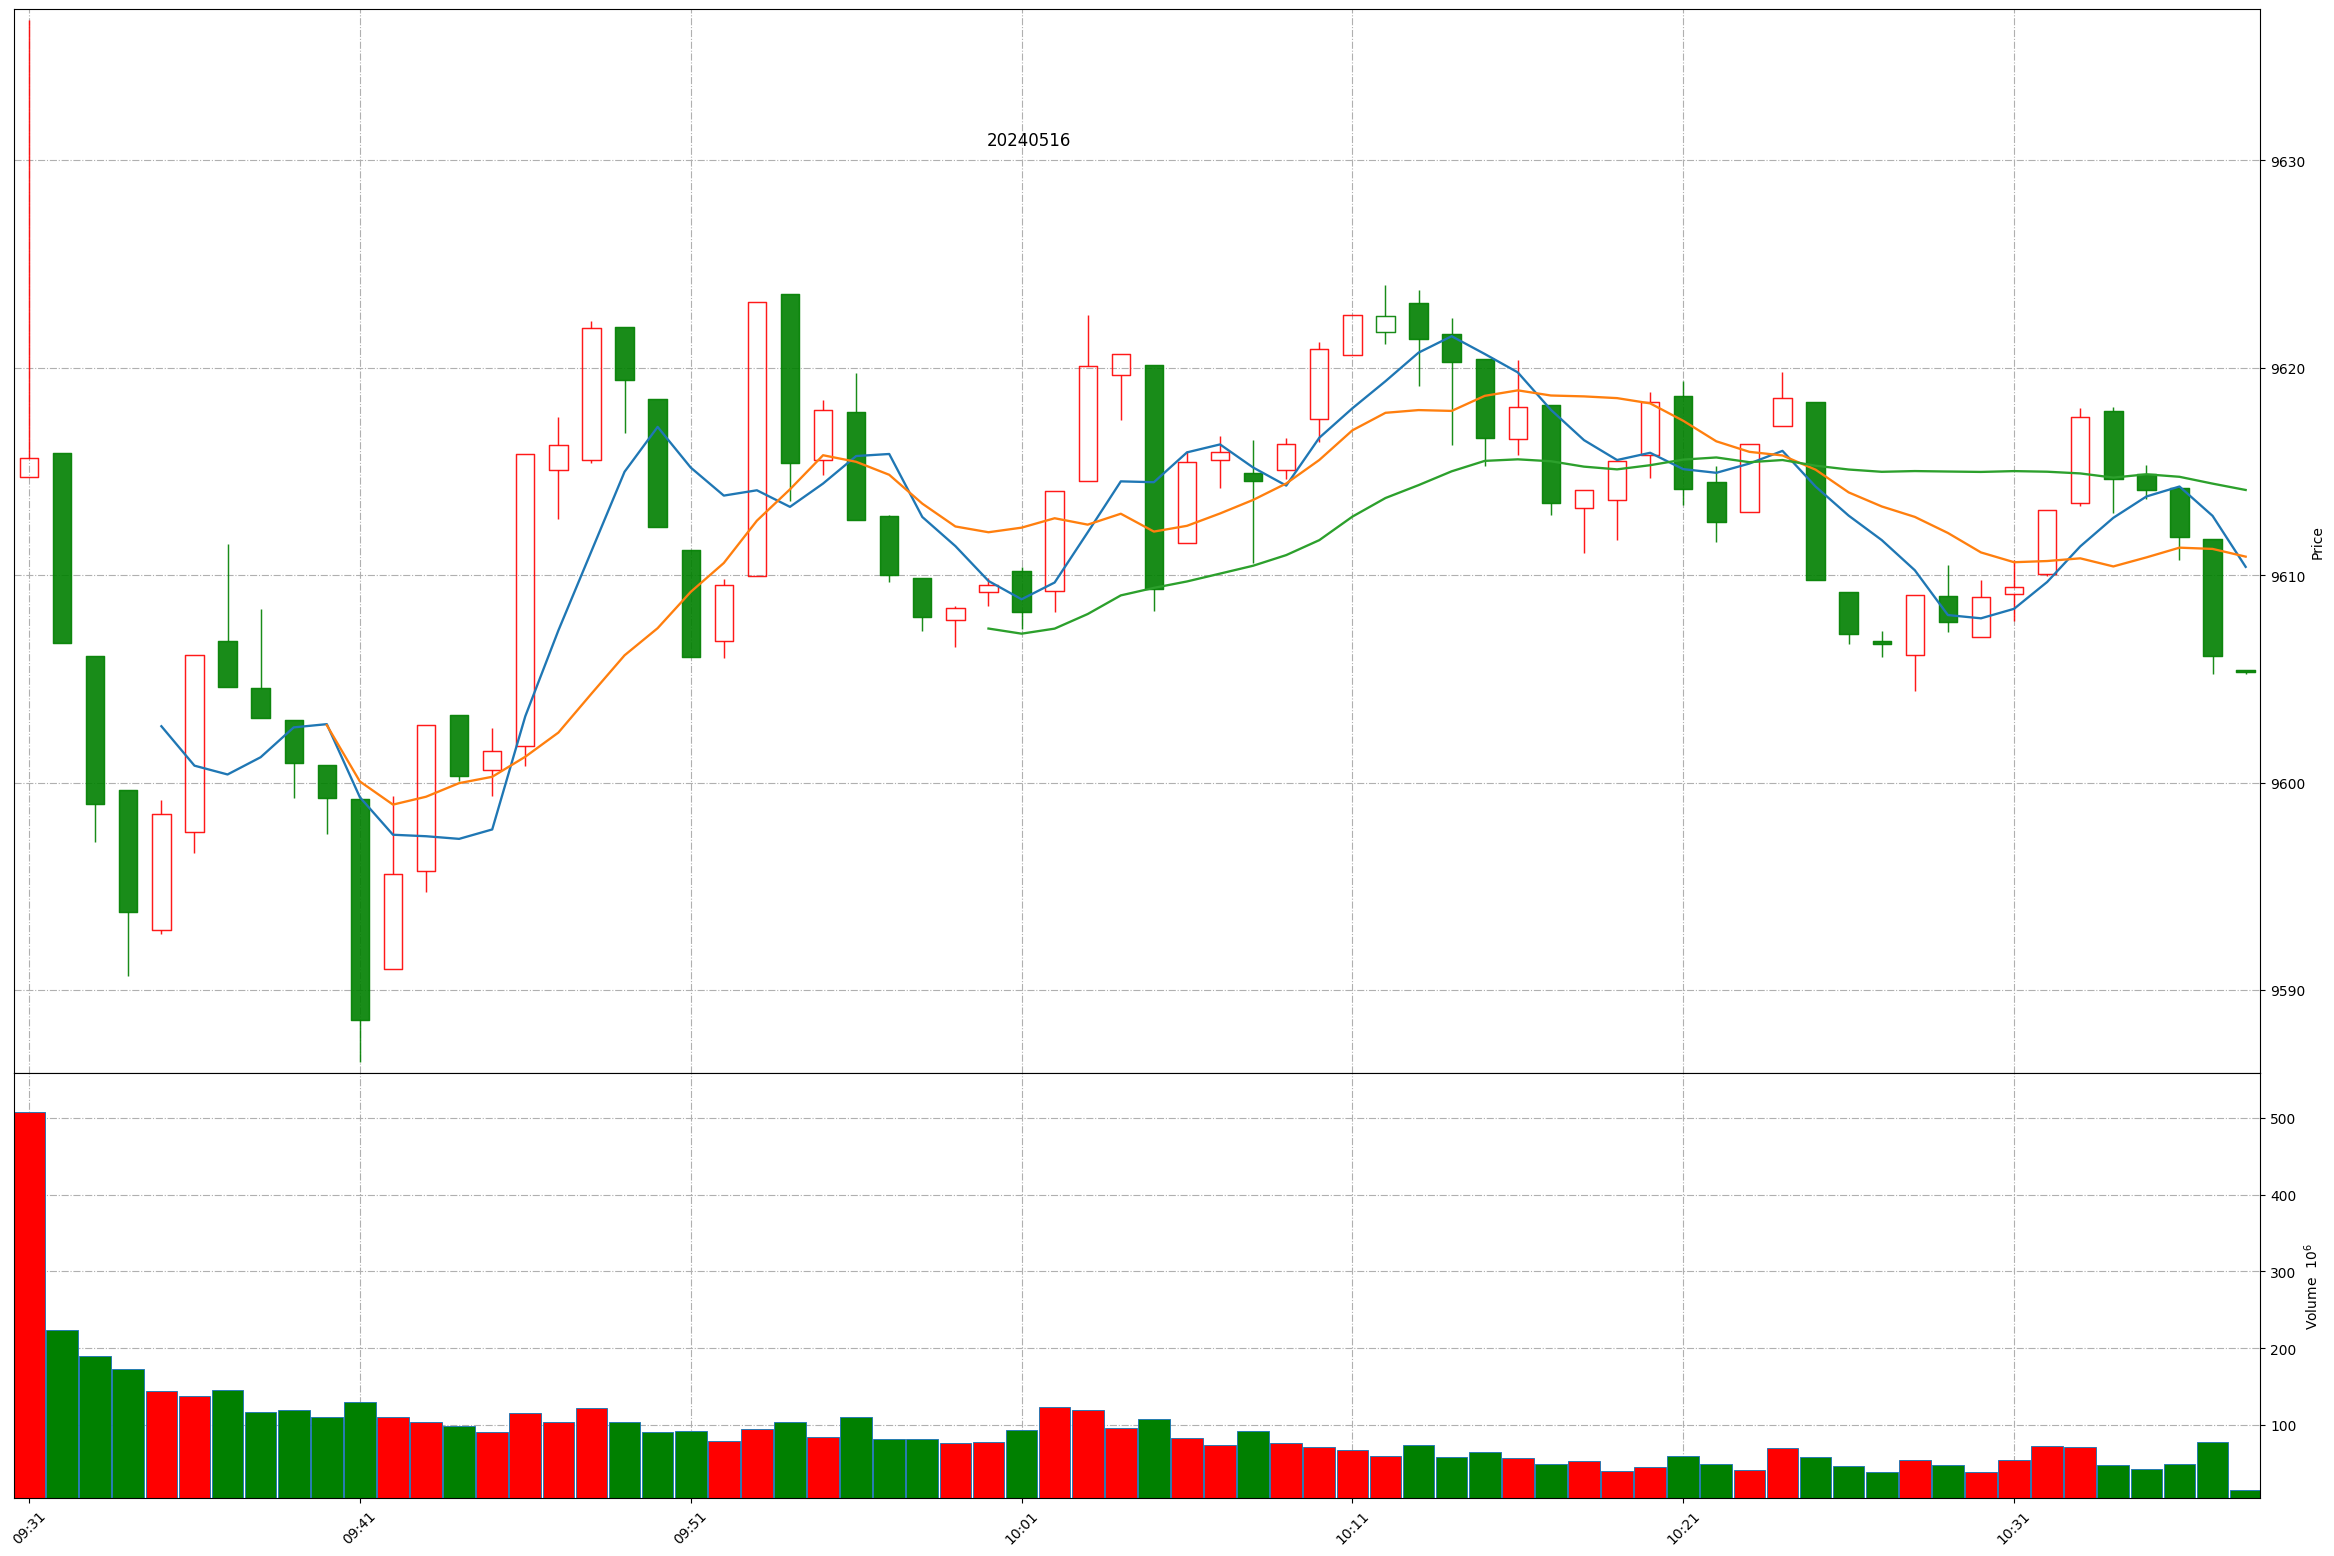
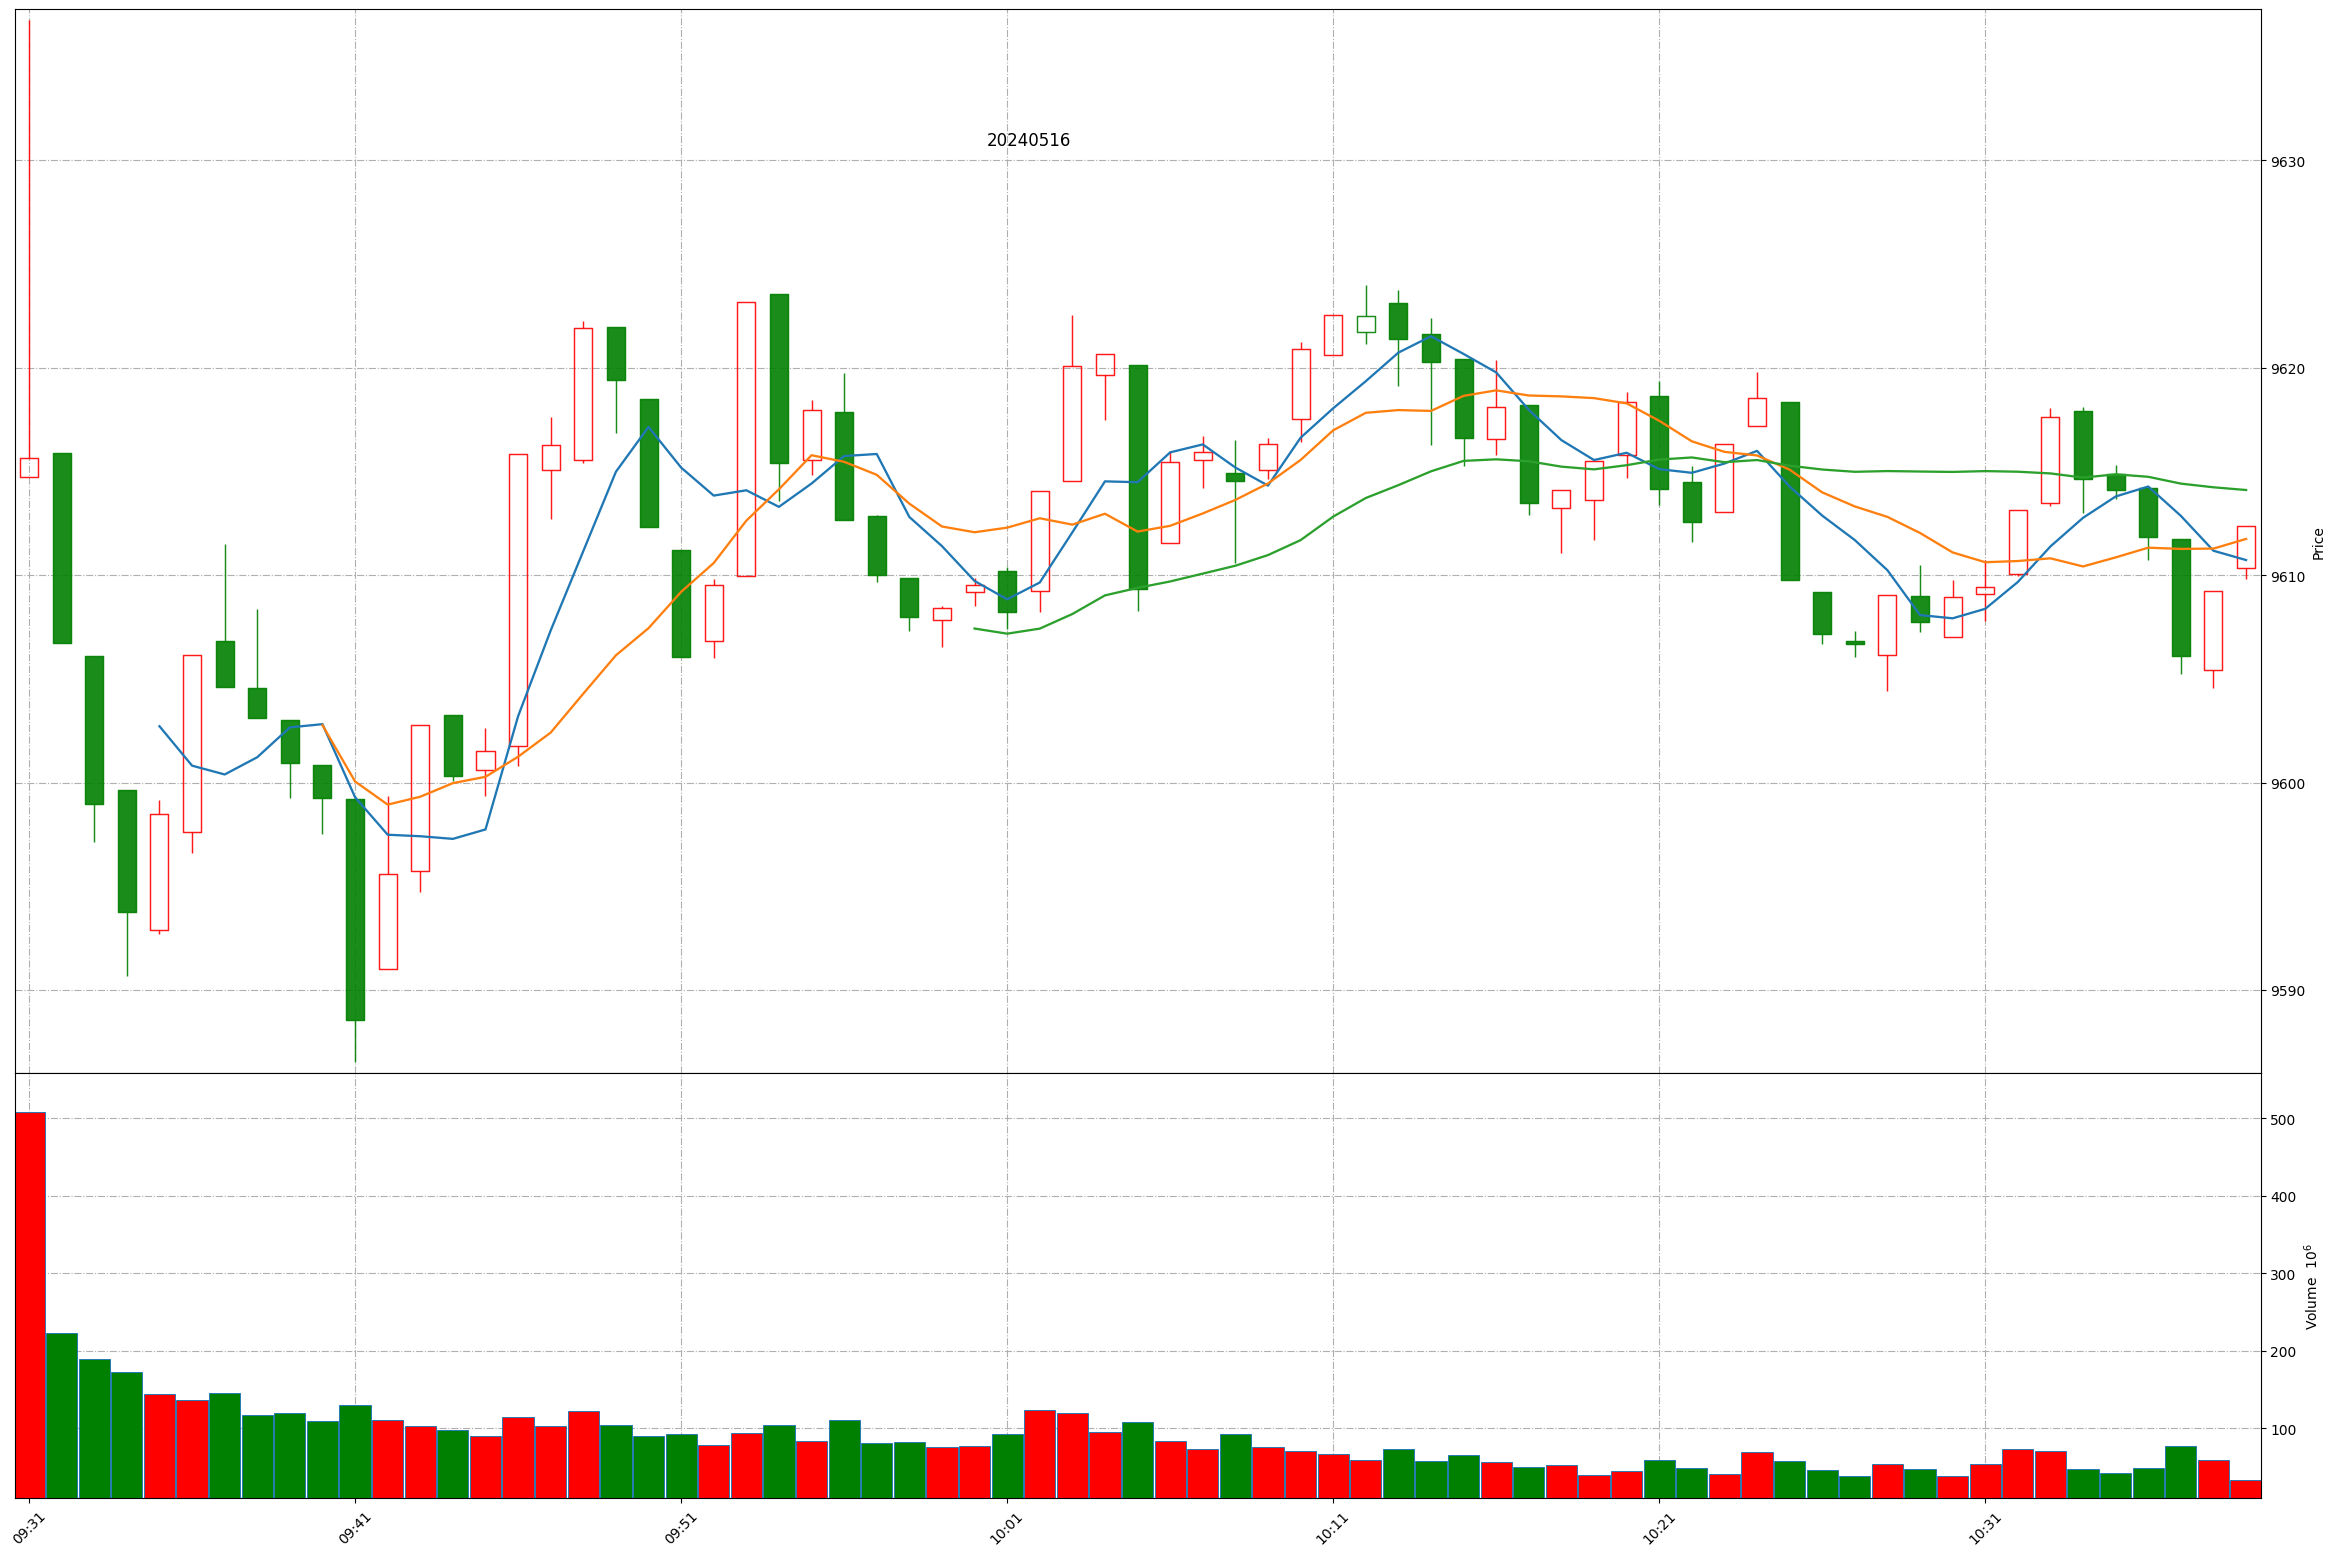
Github action update at 2024-05-16 10:38:54.

diff --git a/README.md b/README.md
@@ -1,11 +1,11 @@
 
 # Daily-A-share-market-quotes 每日 A 股指数（5min 更新）- 20240516
 
-### 上证指数 20240516 10:37
+### 上证指数 20240516 10:38
 ![](./fig/2024/5/20240516-sh000001.png)
 
-### 深证成指 20240516 10:37
+### 深证成指 20240516 10:38
 ![](./fig/2024/5/20240516-sz399001.png)
 
-### 北证50 20240516 10:37
+### 北证50 20240516 10:38
 ![](./fig/2024/5/20240516-bj899050.png)
